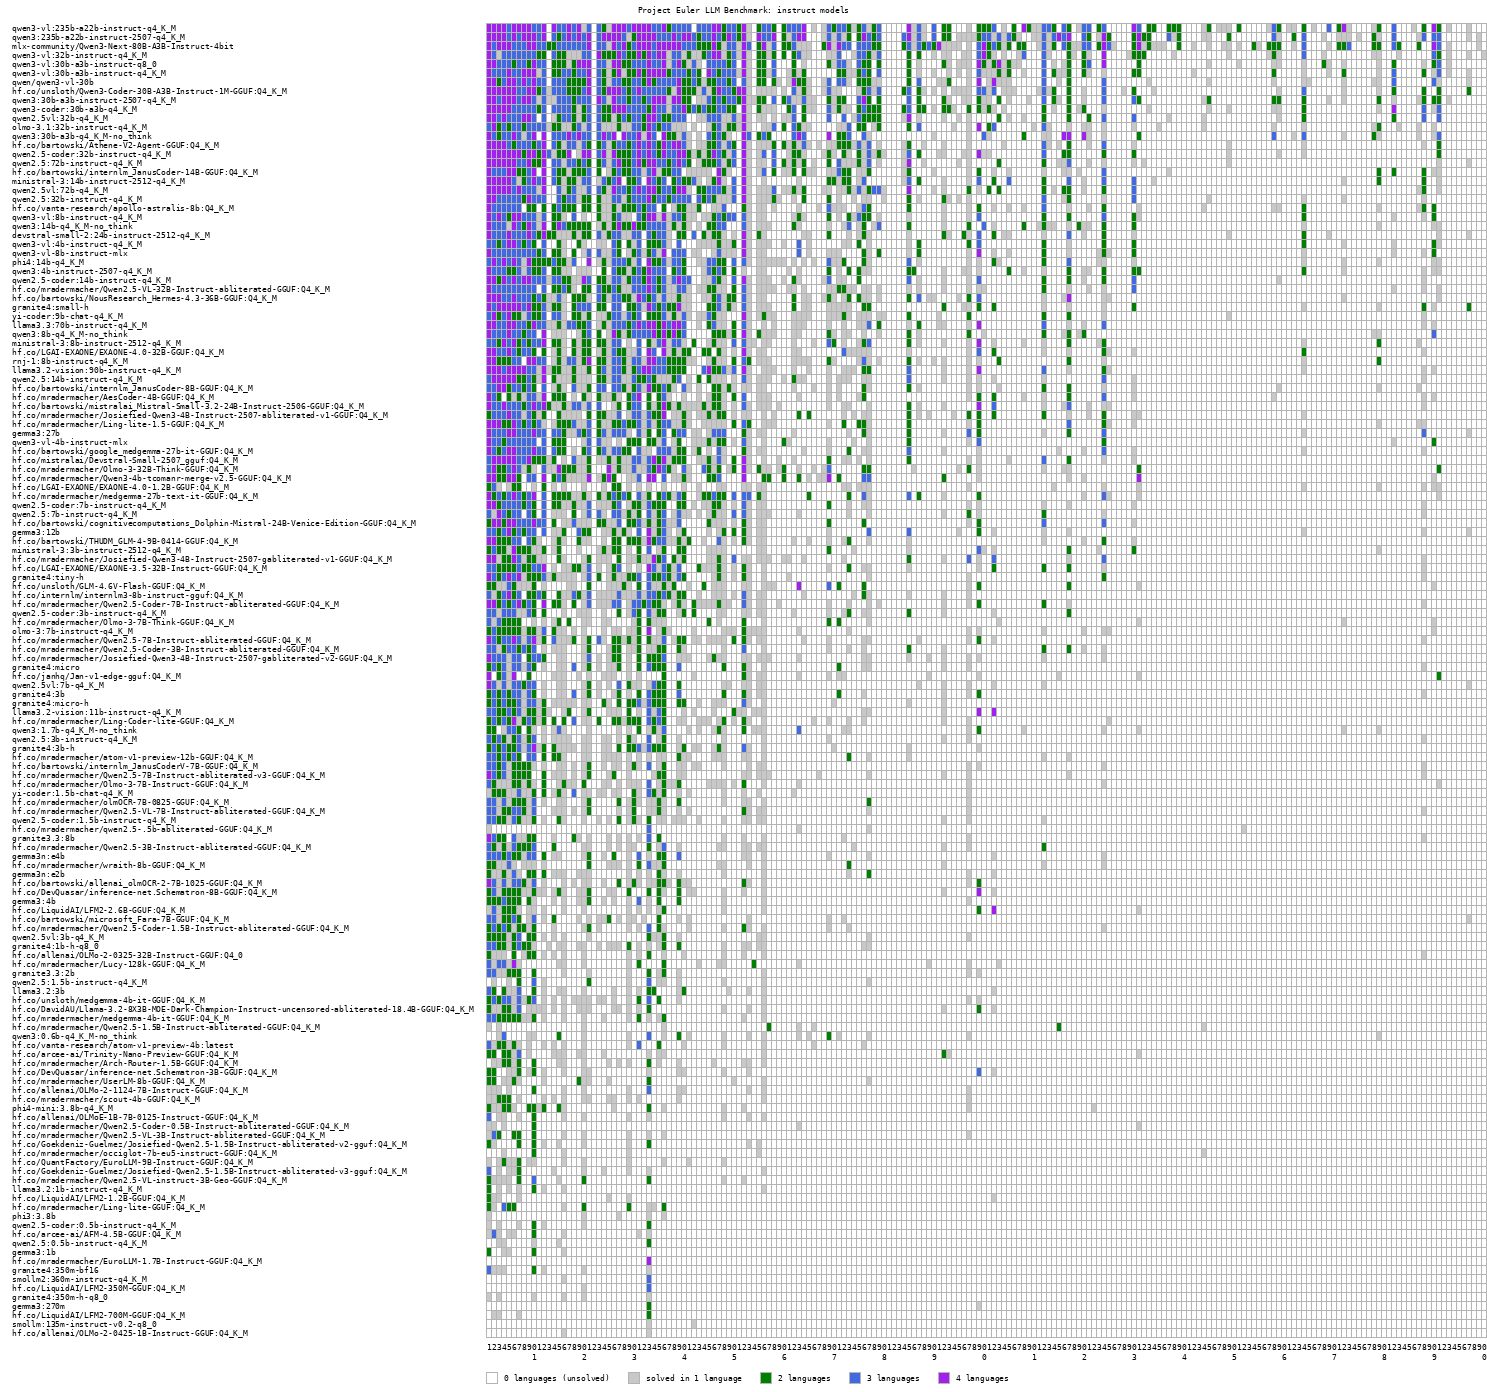
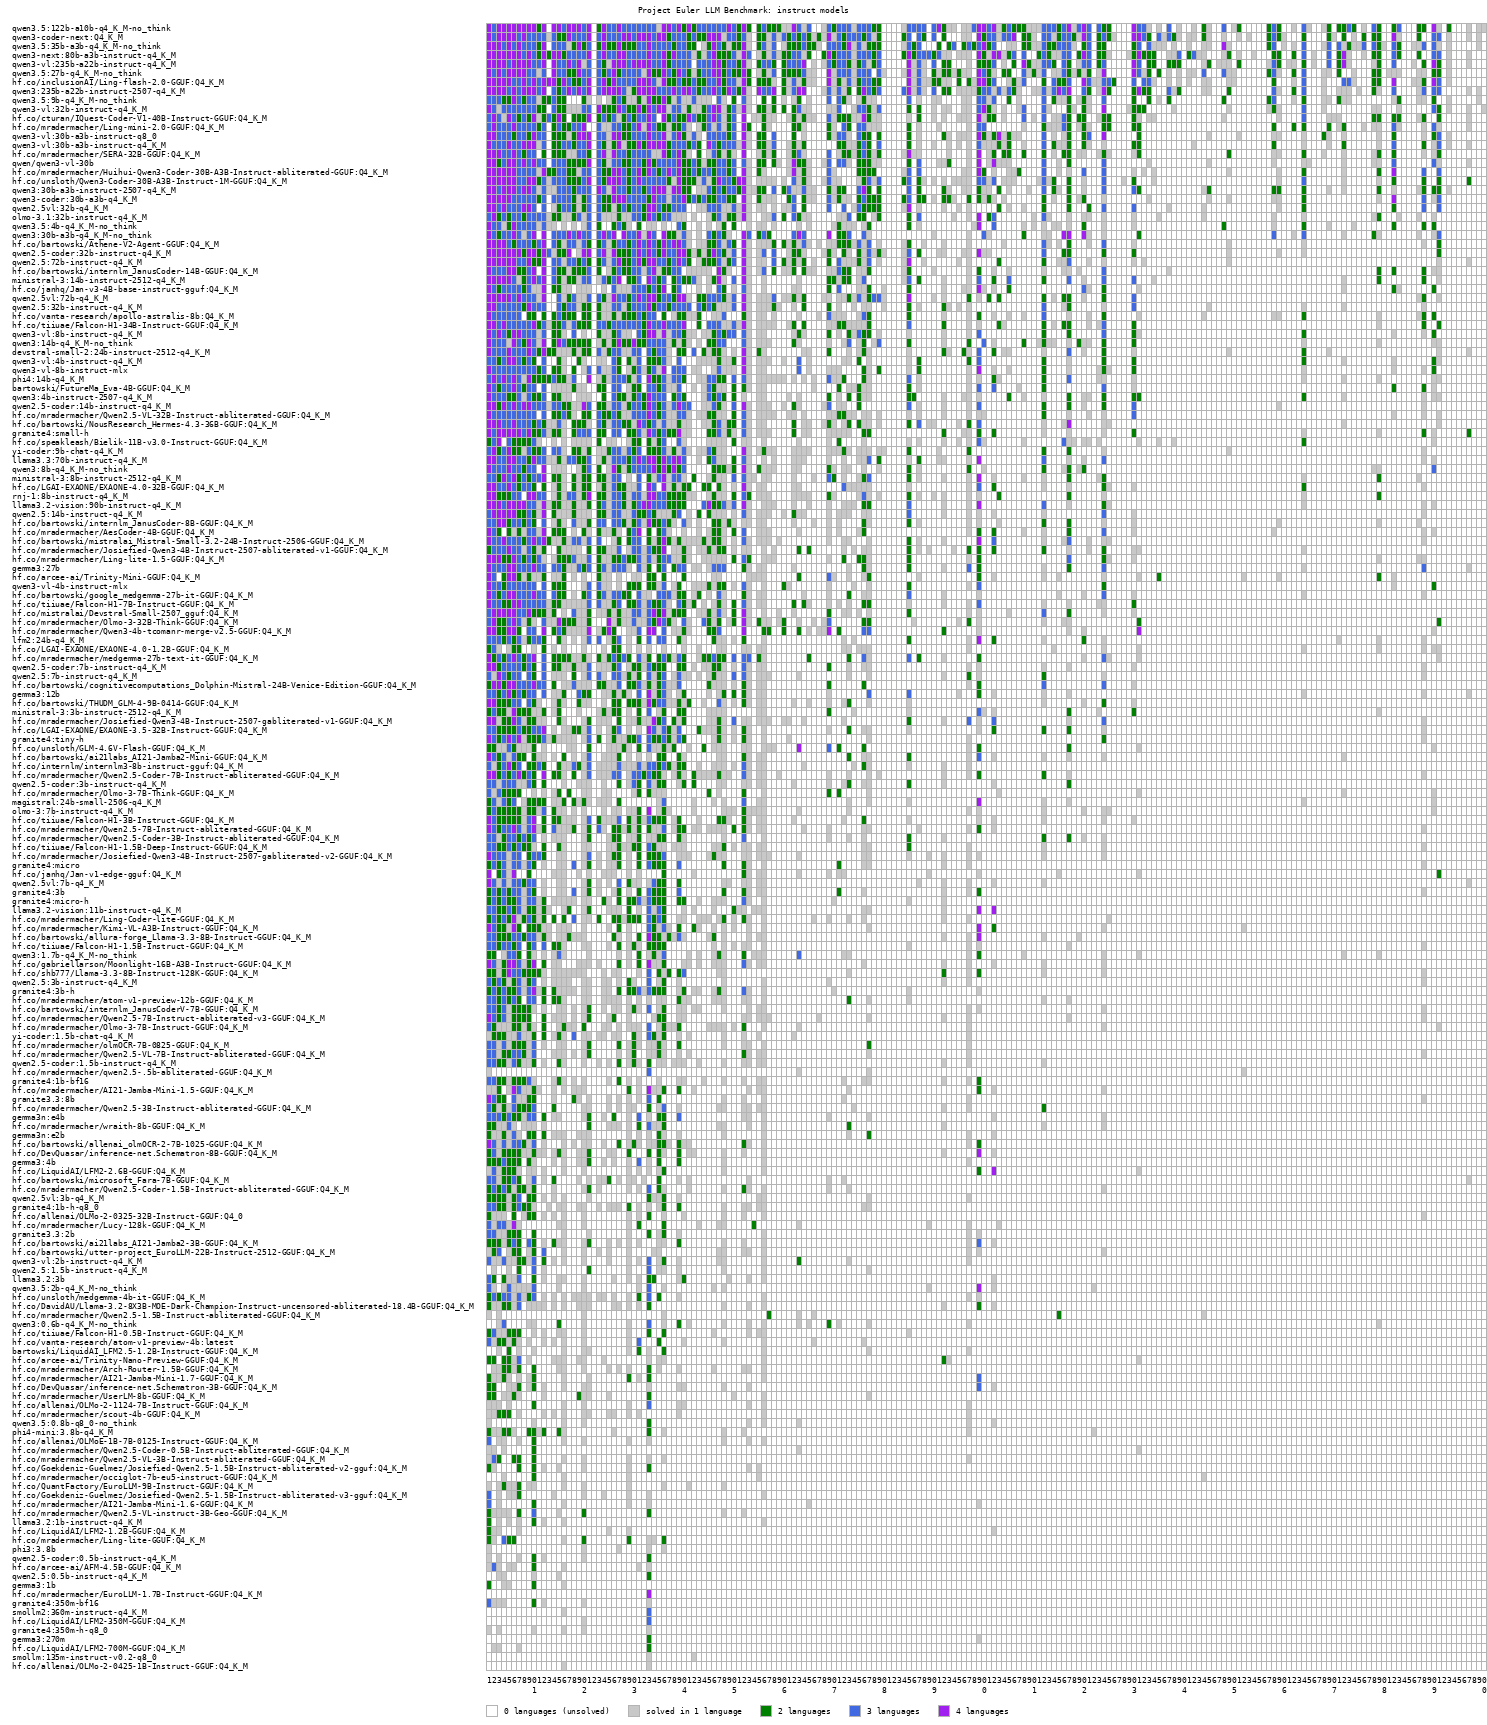
more benchmarks

Changed region(s): [[0.3093, 0.0, 1.0, 1.0], [0.0, 0.0, 0.2784, 0.9885]]

diff --git a/README.md b/README.md
@@ -31,30 +31,32 @@ The "Economic Score" is the average performance per bytes of model size (times 1
 | qwen3:235b-a22b-instruct-2507-q4_K_M                                                             |          |  36.33 |     31 |  235.1 |    4 |  256 | 43.09 | 41.18 | 28.46 | 10.53 |
 | qwen3.5:27b-q4_K_M-no_think                                                                      |    13.50 |  34.77 |    258 |   27.0 |    4 |  256 | 38.31 | 41.97 | 32.2 | 4.13 |
 | hf.co/inclusionAI/Ling-flash-2.0-GGUF:Q4_K_M                                                     |          |  33.29 |     65 |    103 |    4 |  128 | 42.38 | 34.36 | 23.3 | 13.74 |
+| qwen3.5:9b-q4_K_M-no_think                                                                       |     4.50 |  23.17 |    515 |    9.0 |    4 |  256 | 34.75 | 20.97 | 14.82 | 0.17 |
 | qwen3-vl:32b-instruct-q4_K_M                                                                     |          |  20.56 |    123 |   33.4 |    4 |  256 | 27.78 | 21.15 | 13.91 | 3.19 |
 | hf.co/cturan/IQuest-Coder-V1-40B-Instruct-GGUF:Q4_K_M                                            |          |  20.09 |    101 |   39.8 |    4 |  128 | 26.12 | 19.65 | 17.81 | 1.83 |
-| hf.co/mradermacher/Ling-mini-2.0-GGUF:Q4_K_M                                                     |     8.00 |  20.00 |    250 |     16 |    4 |  128 | 26.89 | 19.74 | 15.66 | 1.91 |
+| hf.co/mradermacher/Ling-mini-2.0-GGUF:Q4_K_M                                                     |          |  20.00 |    250 |     16 |    4 |  128 | 26.89 | 19.74 | 15.66 | 1.91 |
 | qwen3-vl:30b-a3b-instruct-q8_0                                                                   |          |  17.61 |     57 |   31.1 |    8 |  256 | 18.64 | 20.51 | 18.53 | 2.98 |
 | qwen3-vl:30b-a3b-instruct-q4_K_M                                                                 |          |  17.33 |    111 |   31.1 |    4 |  128 | 18.95 | 21.38 | 16.01 | 1.38 |
 | qwen3:30b-a3b-instruct-2507-q4_K_M                                                               |          |  17.31 |    114 |   30.5 |    4 |  256 | 16.93 | 23.76 | 16.1 | 1.89 |
-| hf.co/mradermacher/SERA-32B-GGUF:Q4_K_M                                                          |          |  16.71 |    104 |   32.0 |    4 |   32 | 18.68 | 21.48 | 11.48 |      |
+| hf.co/mradermacher/SERA-32B-GGUF:Q4_K_M                                                          |          |  16.32 |    102 |   32.0 |    4 |   32 | 18.68 | 21.48 | 11.48 | 1.09 |
 | qwen/qwen3-vl-30b                                                                                |          |  15.45 |     99 |   31.1 |    4 |  128 | 18.98 | 19.02 | 9.83 | 1.88 |
 | qwen3-coder:30b-a3b-q4_K_M                                                                       |          |  15.18 |    100 |   30.5 |    4 |  256 | 19.51 | 13.41 | 14.03 | 5.46 |
 | hf.co/mradermacher/Huihui-Qwen3-Coder-30B-A3B-Instruct-abliterated-GGUF:Q4_K_M                   |          |  14.97 |     98 |   30.5 |    4 |  160 | 17.56 | 18.06 | 10.43 |  4.4 |
 | hf.co/unsloth/Qwen3-Coder-30B-A3B-Instruct-1M-GGUF:Q4_K_M                                        |          |  14.18 |     93 |   30.5 |    4 |  256 | 14.02 | 17.25 | 12.92 | 8.11 |
 | qwen3:30b-a3b-q4_K_M-no_think                                                                    |          |  13.00 |     85 |   30.5 |    4 |   40 | 14.5 | 15.85 | 10.06 | 4.36 |
 | qwen2.5vl:32b-q4_K_M                                                                             |          |  12.51 |     75 |   33.5 |    4 |  128 | 15.56 | 11.71 | 13.44 | 0.82 |
-| devstral-2:123b-instruct-2512-q4_K_M                                                             |          |  10.60 |     17 |  125.0 |    4 |  256 | 13.9 |      |      |      |
+| devstral-2:123b-instruct-2512-q4_K_M                                                             |          |  10.61 |     17 |  125.0 |    4 |  256 | 13.9 |      |      |      |
 | olmo-3.1:32b-instruct-q4_K_M                                                                     |          |  10.25 |     64 |   32.2 |    4 |  128 | 17.37 | 6.19 | 6.68 | 1.11 |
+| qwen3.5:4b-q4_K_M-no_think                                                                       |     2.00 |  10.16 |    508 |      4 |    4 |  256 | 14.9 | 8.23 | 8.39 | 0.51 |
 | qwen2.5-coder:32b-instruct-q4_K_M                                                                |          |   9.28 |     57 |   32.8 |    4 |   32 | 11.6 | 11.5 | 4.69 | 2.53 |
 | qwen2.5vl:72b-q4_K_M                                                                             |          |   9.03 |     25 |   73.4 |    4 |  128 | 10.11 | 10.98 | 7.64 | 1.67 |
 | hf.co/bartowski/Athene-V2-Agent-GGUF:Q4_K_M                                                      |          |   8.72 |     24 |   72.7 |    4 |  128 | 11.13 | 10.62 | 5.03 | 0.77 |
-| hf.co/bartowski/internlm_JanusCoder-14B-GGUF:Q4_K_M                                              |     7.40 |   8.64 |    117 |   14.8 |    4 |   40 | 11.89 | 6.45 | 9.47 | 0.58 |
-| ministral-3:14b-instruct-2512-q4_K_M                                                             |     6.95 |   8.55 |    123 |   13.9 |    4 |  256 | 11.11 | 8.43 | 7.35 | 1.09 |
+| hf.co/bartowski/internlm_JanusCoder-14B-GGUF:Q4_K_M                                              |          |   8.64 |    117 |   14.8 |    4 |   40 | 11.89 | 6.45 | 9.47 | 0.58 |
+| ministral-3:14b-instruct-2512-q4_K_M                                                             |          |   8.55 |    123 |   13.9 |    4 |  256 | 11.11 | 8.43 | 7.35 | 1.09 |
 | qwen2.5:72b-instruct-q4_K_M                                                                      |          |   8.47 |     23 |   72.7 |    4 |  128 | 11.5 | 8.83 | 5.27 | 1.69 |
-| hf.co/janhq/Jan-v3-4B-base-instruct-gguf:Q4_K_M                                                  |     2.00 |   8.19 |    409 |      4 |    4 |      | 13.51 | 5.06 | 6.05 | 0.56 |
-| hf.co/vanta-research/apollo-astralis-8b:Q4_K_M                                                   |          |   8.00 |    195 |   8.19 |    4 |      | 8.36 | 12.08 | 4.45 | 1.38 |
-| hf.co/tiiuae/Falcon-H1-34B-Instruct-GGUF:Q4_K_M                                                  |          |   7.89 |     47 |   33.6 |    4 |      | 7.87 | 9.73 | 8.81 | 0.57 |
+| hf.co/janhq/Jan-v3-4B-base-instruct-gguf:Q4_K_M                                                  |     2.00 |   8.19 |    409 |      4 |    4 |  256 | 13.51 | 5.06 | 6.05 | 0.56 |
+| hf.co/vanta-research/apollo-astralis-8b:Q4_K_M                                                   |          |   8.00 |    195 |   8.19 |    4 |   32 | 8.36 | 12.08 | 4.45 | 1.38 |
+| hf.co/tiiuae/Falcon-H1-34B-Instruct-GGUF:Q4_K_M                                                  |          |   7.89 |     47 |   33.6 |    4 |  256 | 7.87 | 9.73 | 8.81 | 0.57 |
 | qwen3:4b-instruct-2507-q4_K_M                                                                    |     2.00 |   7.70 |    385 |    4.0 |    4 |  256 | 10.14 | 6.54 | 7.88 |  1.1 |
 | qwen3-vl:8b-instruct-q4_K_M                                                                      |          |   7.38 |    168 |    8.8 |    4 |  256 | 8.39 | 7.02 | 9.34 | 0.46 |
 | qwen3:14b-q4_K_M-no_think                                                                        |          |   7.31 |     99 |   14.8 |    4 |   40 | 8.19 | 10.15 | 4.16 |  1.6 |
@@ -63,7 +65,7 @@ The "Economic Score" is the average performance per bytes of model size (times 1
 | qwen3-vl-8b-instruct-mlx                                                                         |          |   7.00 |    159 |    8.8 |    4 |  256 | 8.23 | 9.48 | 4.07 | 0.54 |
 | phi4:14b-q4_K_M                                                                                  |          |   6.89 |     94 |   14.7 |    4 |   16 | 8.92 | 8.42 | 3.49 | 0.98 |
 | qwen2.5:32b-instruct-q4_K_M                                                                      |          |   6.88 |     42 |   32.8 |    4 |   32 | 9.74 | 6.08 |  5.6 | 0.35 |
-| bartowski/FutureMa_Eva-4B-GGUF:Q4_K_M                                                            |     2.00 |   6.72 |    336 |      4 |    4 |      | 10.86 | 5.05 | 3.98 | 0.69 |
+| bartowski/FutureMa_Eva-4B-GGUF:Q4_K_M                                                            |     2.00 |   6.72 |    336 |      4 |    4 |  256 | 10.86 | 5.05 | 3.98 | 0.69 |
 | granite4:small-h                                                                                 |          |   6.61 |     41 |   32.2 |    4 |  131 | 8.34 | 7.04 | 5.54 | 0.54 |
 | hf.co/mradermacher/Qwen2.5-VL-32B-Instruct-abliterated-GGUF:Q4_K_M                               |          |   6.08 |     37 |   32.8 |    4 |   32 |  7.6 | 6.33 | 5.52 | 0.32 |
 | qwen2.5-coder:14b-instruct-q4_K_M                                                                |          |   6.01 |     81 |   14.8 |    4 |  128 | 6.35 | 8.46 | 4.08 | 1.15 |
@@ -92,7 +94,7 @@ The "Economic Score" is the average performance per bytes of model size (times 1
 | qwen2.5:14b-instruct-q4_K_M                                                                      |          |   3.86 |     52 |   14.8 |    4 |   32 | 4.34 | 5.73 | 1.81 | 0.41 |
 | hf.co/mistralai/Devstral-Small-2507_gguf:Q4_K_M                                                  |          |   3.68 |     31 |   23.6 |    4 |  128 | 5.32 | 3.03 | 2.99 | 0.46 |
 | lfm2:24b-q4_K_M                                                                                  |          |   3.59 |     30 |   24.0 |    4 |  128 | 5.39 | 3.56 | 1.73 | 0.21 |
-| hf.co/LGAI-EXAONE/EXAONE-4.0-1.2B-GGUF:Q4_K_M                                                    |     0.64 |   3.50 |    547 |   1.28 |    4 |      | 5.49 | 4.35 | 0.01 |  0.0 |
+| hf.co/LGAI-EXAONE/EXAONE-4.0-1.2B-GGUF:Q4_K_M                                                    |     0.64 |   3.50 |    547 |   1.28 |    4 |   64 | 5.49 | 4.35 | 0.01 |  0.0 |
 | gemma3:12b                                                                                       |          |   2.97 |     49 |   12.2 |    4 |  128 | 3.21 | 2.79 | 3.92 | 0.69 |
 | ministral-3:3b-instruct-2512-q4_K_M                                                              |          |   2.94 |    155 |    3.8 |    4 |  128 |  4.9 | 2.22 | 1.54 |  0.1 |
 | hf.co/mradermacher/Josiefied-Qwen3-4B-Instruct-2507-gabliterated-v1-GGUF:Q4_K_M                  |          |   2.94 |    146 |   4.02 |    4 |      | 3.94 |  3.1 | 1.78 | 0.74 |
@@ -158,6 +160,7 @@ The "Economic Score" is the average performance per bytes of model size (times 1
 | hf.co/bartowski/ai21labs_AI21-Jamba2-3B-GGUF:Q4_K_M                                              |          |   0.71 |     47 |    3.0 |    4 |  256 | 1.35 | 0.21 | 0.28 | 0.48 |
 | hf.co/bartowski/utter-project_EuroLLM-22B-Instruct-2512-GGUF:Q4_K_M                              |          |   0.68 |      6 |   22.6 |    4 |      |  1.5 | 0.12 | 0.23 | 0.01 |
 | qwen3-vl:2b-instruct-q4_K_M                                                                      |          |   0.67 |     64 |    2.1 |    4 |  256 | 1.07 | 0.59 | 0.29 | 0.09 |
+| qwen3.5:2b-q4_K_M-no_think                                                                       |          |   0.63 |     63 |      2 |    4 |  256 | 0.65 | 0.44 | 0.51 | 1.33 |
 | llama3.2:3b                                                                                      |          |   0.61 |     38 |    3.2 |    4 |  128 |  1.3 | 0.27 | 0.05 |  0.0 |
 | hf.co/unsloth/medgemma-4b-it-GGUF:Q4_K_M                                                         |          |   0.60 |     31 |   3.88 |    4 |  128 | 1.14 | 0.28 | 0.16 | 0.28 |
 | hf.co/DavidAU/Llama-3.2-8X3B-MOE-Dark-Champion-Instruct-uncensored-abliterated-18.4B-GGUF:Q4_K_M |          |   0.60 |      6 |   18.4 |    4 |      | 1.05 |  0.3 |  0.3 | 0.28 |
@@ -177,6 +180,7 @@ The "Economic Score" is the average performance per bytes of model size (times 1
 | hf.co/mradermacher/UserLM-8b-GGUF:Q4_K_M                                                         |          |   0.34 |      9 |      8 |    4 |      | 0.73 | 0.05 | 0.12 |  0.1 |
 | hf.co/allenai/OLMo-2-1124-7B-Instruct-GGUF:Q4_K_M                                                |          |   0.33 |      9 |    7.3 |    4 |    2 | 0.69 |  0.1 | 0.08 | 0.09 |
 | hf.co/mradermacher/scout-4b-GGUF:Q4_K_M                                                          |          |   0.33 |     17 |   3.88 |    4 |      | 0.77 | 0.04 | 0.03 |  0.0 |
+| qwen3.5:0.8b-q8_0-no_think                                                                       |          |   0.31 |     76 |    0.8 |    4 |  256 | 0.42 | 0.38 |  0.0 | 0.23 |
 | hf.co/allenai/OLMoE-1B-7B-0125-Instruct-GGUF:Q4_K_M                                              |          |   0.22 |      6 |   6.92 |    4 |    2 | 0.53 | 0.03 | 0.01 |  0.0 |
 | hf.co/mradermacher/Qwen2.5-Coder-0.5B-Instruct-abliterated-GGUF:Q4_K_M                           |          |   0.22 |      0 |  494.0 |    4 |  128 | 0.05 | 0.02 | 0.95 |  0.0 |
 | hf.co/mradermacher/Qwen2.5-VL-3B-Instruct-abliterated-GGUF:Q4_K_M                                |          |   0.21 |     14 |   3.09 |    4 |   64 | 0.48 | 0.07 | 0.01 |  0.0 |
@@ -207,11 +211,11 @@ The "Economic Score" is the average performance per bytes of model size (times 1
 ### Thinking
 | Model                                                                                            | Best<br/>Model<br/>for<br/>Size (GB) | PE-200-<br/>Score | Mem-<br/>Score | Size<br/>*10^9 Params | Bits | Context Length<br/>(K) | Python | Java | Rust | Clojure |
 | :----------------------------------------------------------------------------------------------- | -----------------------------------: | ----------------: | -------------: | --------------------: | ---: | ---------------------: | -----: | ---: | ---: | ------: |
+| hf.co/inclusionAI/Ring-flash-2.0-GGUF:Q4_K_M                                                     |    51.50 |  52.90 |    103 |    103 |    4 |  128 | 57.25 | 58.6 | 41.79 | 40.64 |
 | qwen3:30b-a3b-thinking-2507-q4_K_M                                                               |    15.25 |  44.59 |    292 |   30.5 |    4 |  128 | 47.67 | 56.83 | 31.3 | 22.16 |
-| hf.co/inclusionAI/Ring-flash-2.0-GGUF:Q4_K_M                                                     |          |  43.65 |        |        |    4 |      | 57.25 |      |      |      |
 | qwen3-next:80b-a3b-thinking-q4_K_M                                                               |          |  43.61 |    109 |   79.7 |    4 |  256 | 45.31 | 53.11 | 39.97 | 15.62 |
 | nemotron-3-nano:30b-a3b-q4_K_M                                                                   |          |  43.52 |    275 |   31.6 |    4 | 1024 | 48.01 | 57.0 | 29.47 | 13.21 |
-| qwen3.5:122b-a10b-q4_K_M-think                                                                   |          |  36.13 |     59 |    122 |    4 |  256 | 47.39 |      |      |      |
+| qwen3.5:122b-a10b-q4_K_M-think                                                                   |          |  36.16 |     59 |    122 |    4 |  256 | 47.39 |      |      |      |
 | hf.co/mradermacher/Ring-mini-2.0-GGUF:Q4_K_M                                                     |     8.00 |  35.66 |    446 |     16 |    4 |  128 | 37.07 | 46.09 | 31.0 | 8.01 |
 | hf.co/bartowski/nvidia_Nemotron-Cascade-8B-Thinking-GGUF:Q4_K_M                                  |     4.09 |  32.76 |    800 |   8.19 |    4 |  128 | 45.65 | 39.25 | 13.4 | 0.45 |
 | olmo-3.1:32b-think-q4_K_M                                                                        |          |  30.46 |    189 |   32.2 |    4 |   64 | 36.34 | 40.86 | 15.51 | 5.65 |
